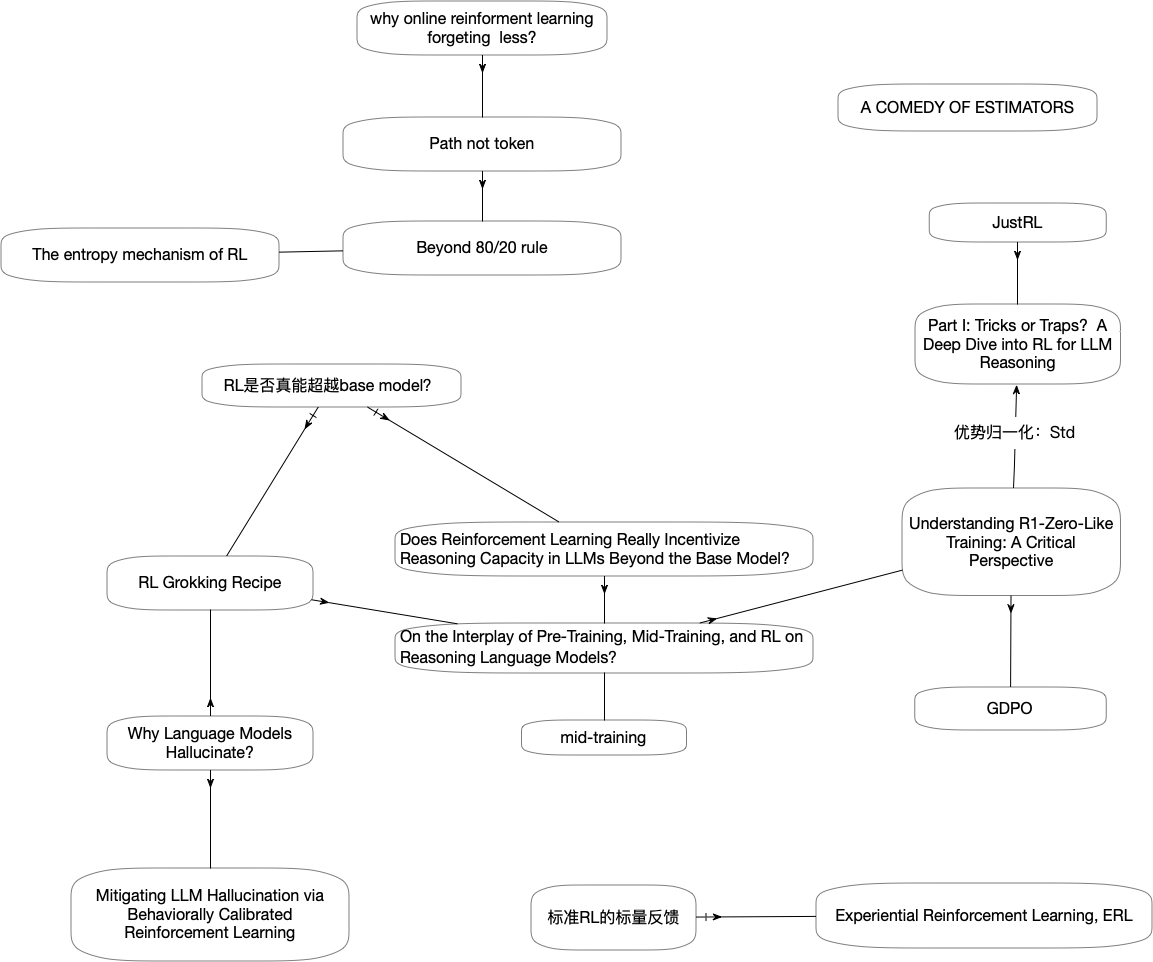
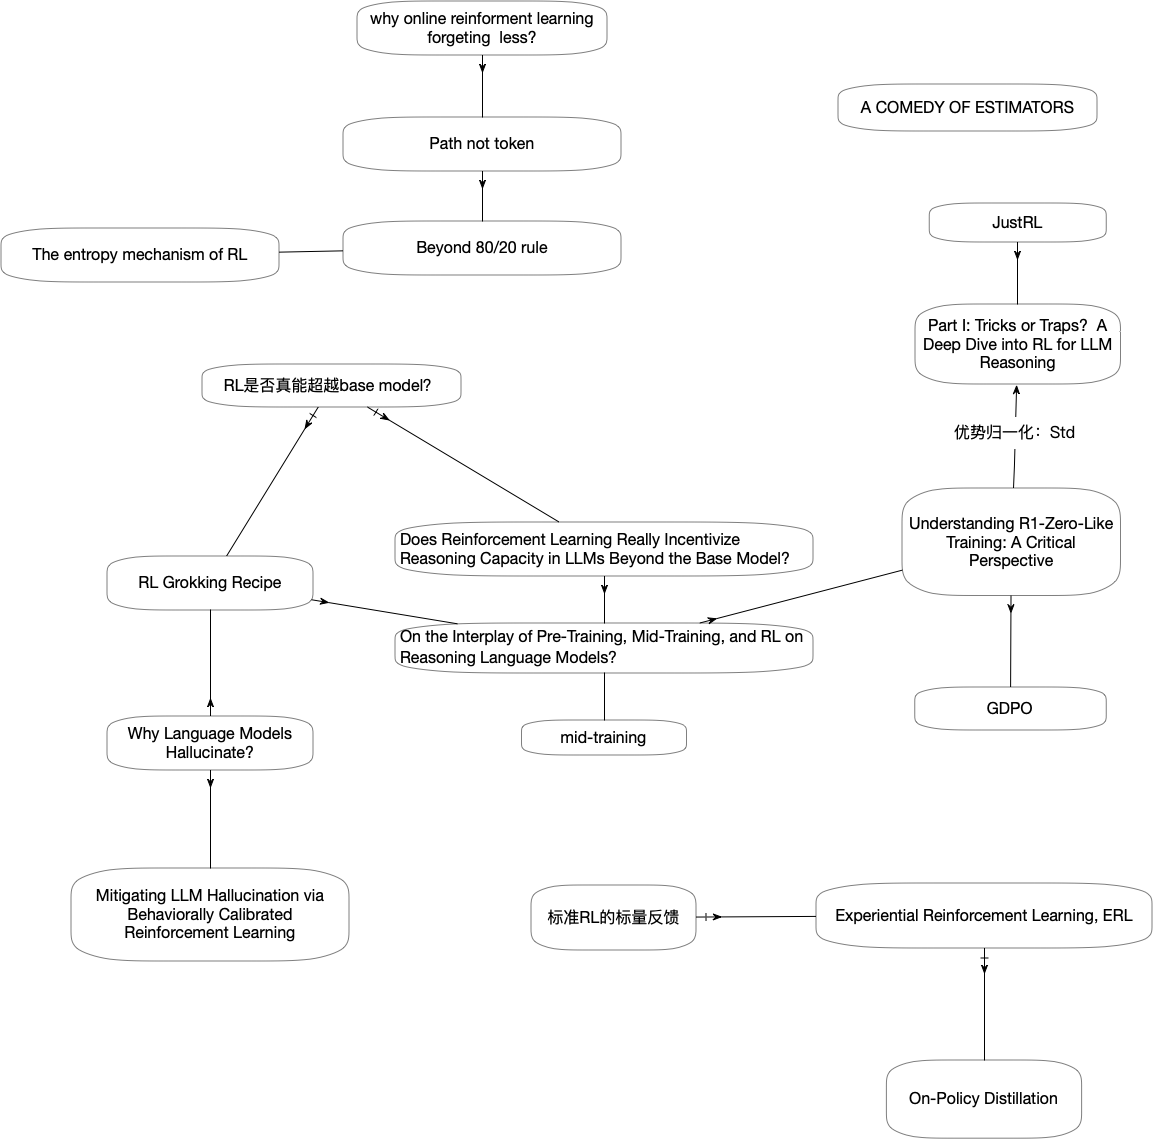
在图中添加On-Policy Distillation

diff --git a/README.md b/README.md
@@ -35,7 +35,7 @@
 * deepspeed-chat [deepspeed-chat](https://github.com/deepspeedai/DeepSpeed/tree/master/blogs/deepspeed-chat)
 
 
-![论文关联1](https://github.com/ztaoing/DeepRL_Steps/blob/main/rl_ai.png?v=5)
+![论文关联1](https://github.com/ztaoing/DeepRL_Steps/blob/main/rl_ai.png?v=6)
 # 强化学习论文
 * [TODOStatistical Reinforcement Learning in the Real World: A Survey of  Challenges and Future Directions]()
 
@@ -246,6 +246,7 @@
 ### On-Policy Distillation
 * [On-Policy Distillation](https://thinkingmachines.ai/blog/on-policy-distillation/)
   - 训练与测试的统一：学生写，老师改
+  - SFT是一种破坏性的训练（哪怕目标分布与原始分布完全一致）
 * [Reinforced Attention Learning]()
 
   使用On-Policy Distillation方案
